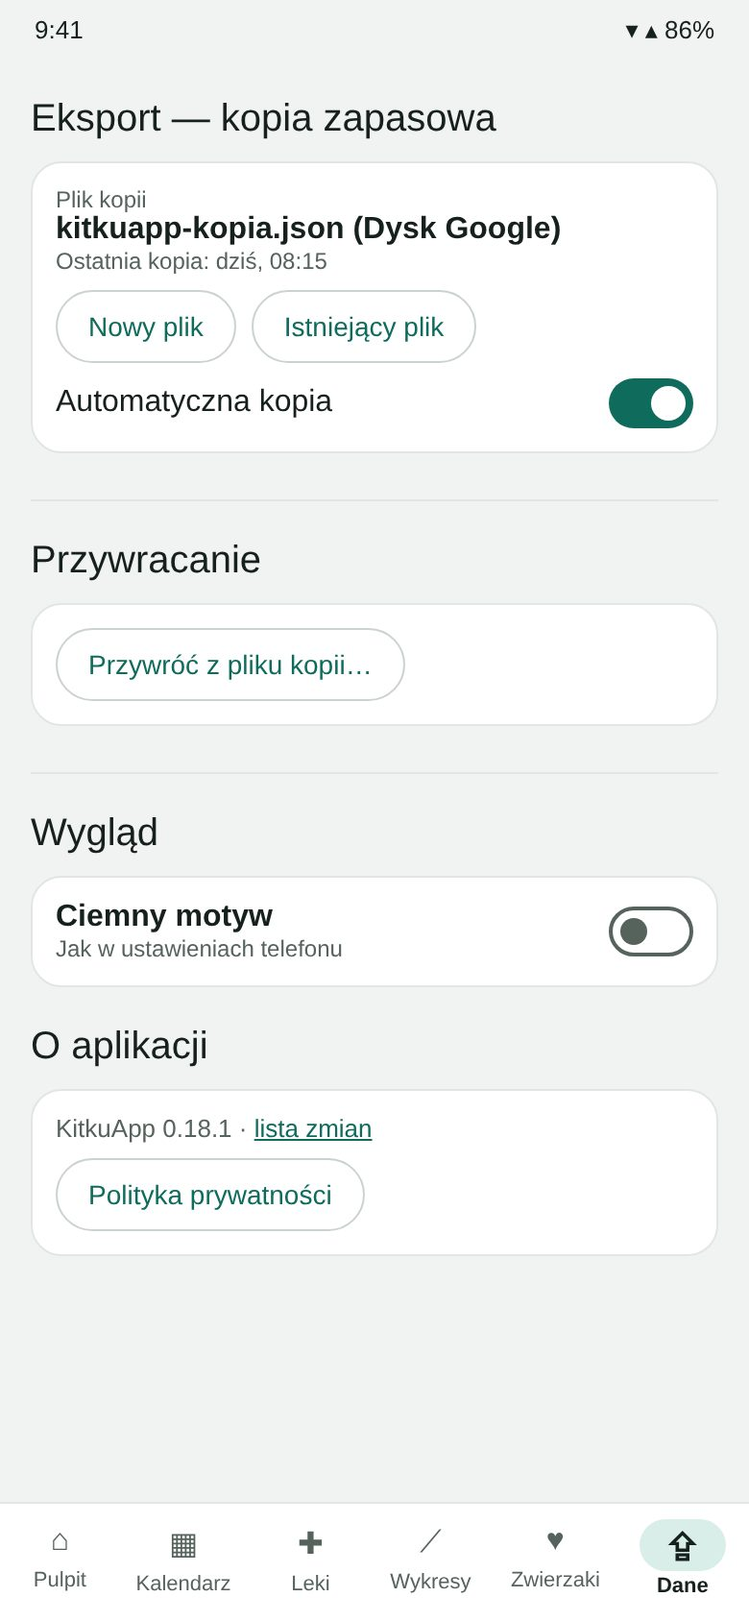
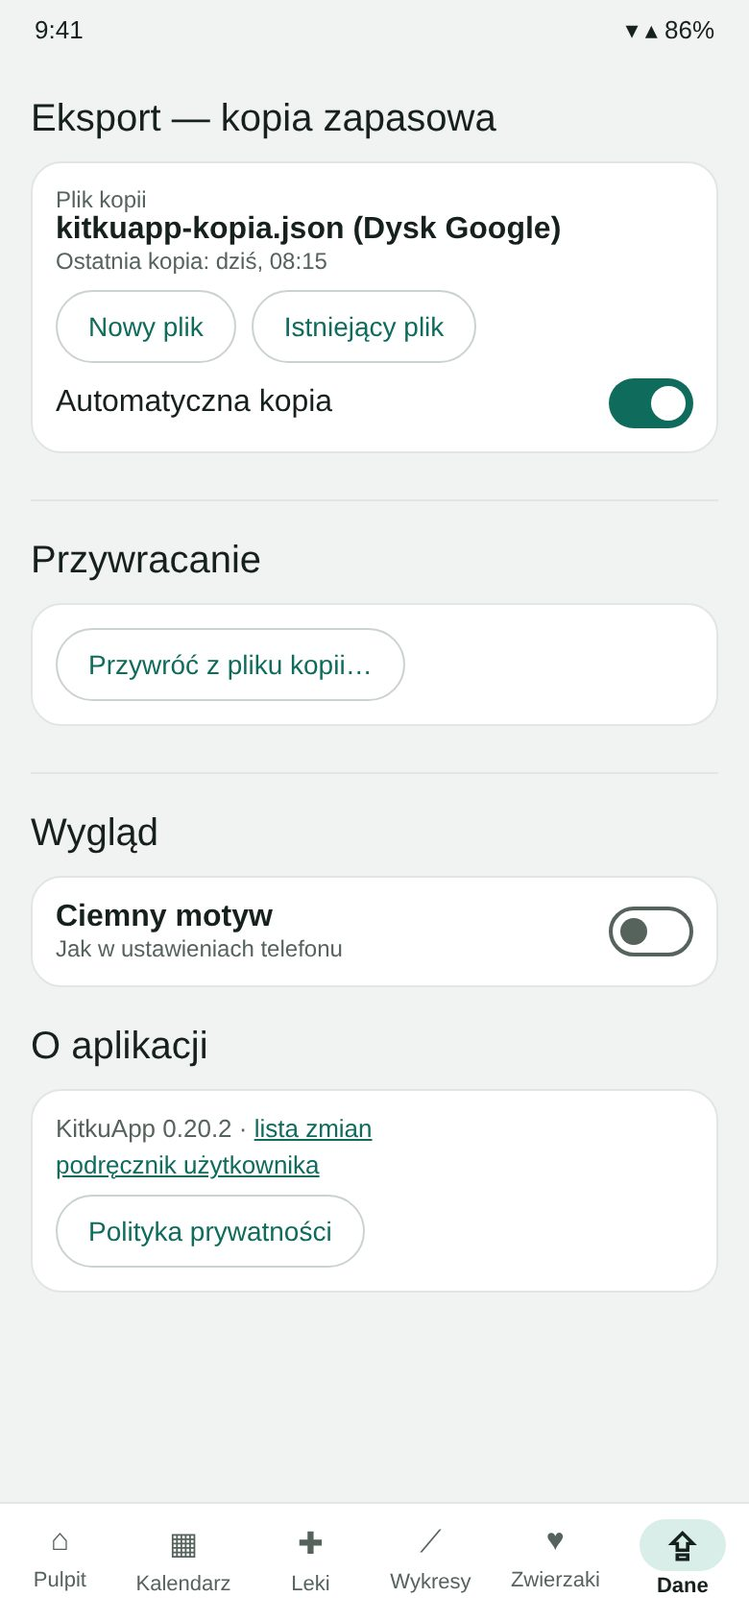
Zmiany 0.20.2, podręcznik: link do podręcznika w O aplikacji
Claude-Session: https://claude.ai/code/session_01Lz8gJxS2uki7r8oLhaRRUg

Changed region(s): [[0.0615, 0.6777, 0.4923, 0.7701]]

diff --git a/zmiany/index.html b/zmiany/index.html
@@ -8,5 +8,5 @@ main{max-width:760px;margin:0 auto;padding:clamp(28px,5vw,56px) max(5vw,18px) 64
 h1{font-size:clamp(30px,5vw,40px);line-height:1.1;margin:8px 0 18px}.ver{border-top:1px solid var(--line);padding:14px 0 4px}
 .ver h2{font-size:20px;margin:0 0 4px}.ver h2 span{font-size:15px;font-weight:400;color:var(--mut);margin-left:8px}ul{padding-left:22px;margin:6px 0}li{margin:4px 0}</style></head><body><main>
 <p><a href="../">← KitkuApp</a></p><h1>Historia zmian</h1>
-<section class="ver"><h2>0.20.1 <span>24.11.2026</span></h2><ul><li>Wykresy: „Dodaj pomiar” jest teraz nad listą wcześniejszych pomiarów.</li><li>Pomiary domowe: usunięte ciśnienie rozkurczowe (u kotów ocenia się głównie skurczowe). Wartości rozkurczowe z wypisów nadal są na wykresach.</li></ul></section><section class="ver"><h2>0.20.0 <span>24.11.2026</span></h2><ul><li>Wykresy na osi czasu: punkty w odstępach zgodnych z datami, na osi lata (po przybliżeniu półrocza i kwartały).</li><li>Domyślnie widać ostatnie 3 lata; gdy pomiary obejmują krótszy okres – wszystkie.</li><li>Przeciągnięcie wykresu w lewo lub w prawo przesuwa widok w czasie; strzałki ‹ › w rogach pokazują, że są starsze lub nowsze pomiary.</li><li>Suwak pod wykresem przybliża od „wszystko” do 3 miesięcy; „↺ Domyślny widok” wraca do 3 lat.</li></ul></section><section class="ver"><h2>0.19.2 <span>24.11.2026</span></h2><ul><li>Wykresy: parametry morfologii w kolejności jak na wydruku z analizatora (WBC, BAS%, BAS, NEU%, NEU … PLT, MPV, PDW, PCT), pozostałe pod nimi alfabetycznie.</li></ul></section><section class="ver"><h2>0.19.1 <span>24.11.2026</span></h2><ul><li>Wykresy: ten sam wynik zapisany w dwóch dokumentach z jednego dnia pokazuje się raz (bez nakładających się etykiet).</li><li>Parametry podawane w % (np. NEU %) mają własny wykres, osobno od wartości bezwzględnych.</li><li>Lista parametrów: bez pustych dopisków „też:”.</li></ul></section><section class="ver"><h2>0.19.0 <span>24.11.2026</span></h2><ul><li>Wykresy: wykres od razu pod wyborem zwierzaka. Dotknięcie nazwy parametru otwiera wybór, strzałki ‹ › przechodzą do sąsiednich parametrów z tej samej grupy.</li><li>Pod wykresem skróty: parametry poza normą w ostatnich wynikach i przypięte gwiazdką.</li><li>„Wszystkie parametry” – lista z wyszukiwarką (także po innych nazwach, np. „hematokryt”), pogrupowana jak badania, z ostatnią wartością.</li><li>Ten sam parametr z różnych laboratoriów (np. HCT i Hematokryt, PLT i Płytki krwi) oraz nazwy rozbite przy odczycie PDF trafiają na jeden wykres.</li></ul></section><section class="ver"><h2>0.18.2 <span>24.11.2026</span></h2><ul><li>Profil: „Archiwum diet” i „Historia fizjoterapii” przeniesione pod karty – przycisk dodawania w nagłówku nie łamie się już na wąskich ekranach.</li></ul></section><section class="ver"><h2>0.18.1 <span>23.11.2026</span></h2><ul><li>Poprawka: po przesunięciu profilu na innego zwierzaka „Terminy badań” pokazywały daty poprzednio oglądanego zwierzaka.</li></ul></section><section class="ver"><h2>0.18.0 <span>23.11.2026</span></h2><ul><li>Wizyta z datą w przyszłości wymaga tylko tytułu. Gdy termin minie, jest wyróżniona w historii i na Pulpicie z prośbą o wyniki – „Uzupełnij” albo „Dodaj skan” (skan z tego dnia uzupełni ten wpis).</li><li>Dieta: w profilu tylko trwające diety, zakończone w „Archiwum diet”. „Zakończ dietę” od razu przenosi ją do archiwum.</li><li>Fizjoterapia przeniesiona z kategorii badań do profilu zwierzaka – sekcja pod dietą, z własną historią.</li><li>Przesunięcie profilu w lewo lub w prawo przechodzi do kolejnego zwierzaka.</li><li>Kategorie badań przy dodawaniu wpisu pogrupowane (krew i mocz, obrazowe, wizyty) i zajmują mniej miejsca.</li></ul></section><section class="ver"><h2>0.17.0 <span>23.11.2026</span></h2><ul><li>Ręczny wpis: osobne pola Opis i Zalecenia (zalecenia tworzą przypomnienia), wyniki wpisywane wierszami – z podpowiedzią parametru, jednostką, normą i strzałką poza normą. Badanie z wynikami wymaga co najmniej jednego wyniku. Wyniki trafiają na wykresy i do stanu zdrowia.</li><li>Nowa kategoria: Fizjoterapia (opis zabiegów i zalecenia).</li><li>Stan zdrowia: dotknięcie pozycji otwiera badanie, przy wartościach poza normą widać normę, a zalecenia typu „kontrola za 12 miesięcy” nie są liczone jako problem.</li><li>Wybór zwierzaka ze zdjęciem i kolorem zwierzaka w tle (kalendarz, leki, wykresy, wpisy).</li><li>Leki: sekcja „Historia diet” nad historią leczenia.</li></ul></section><section class="ver"><h2>0.16.0 <span>23.11.2026</span></h2><ul><li>Profil zwierzaka: sekcja „Dieta” (nazwa, od–do lub na stałe, reakcja na dietę). Po zakończeniu dieta przechodzi do historii.</li><li>Wyszukiwanie w historii zwierzaka – w tytułach i opisach wpisów, na bieżąco podczas pisania.</li><li>Historia podzielona na roczniki – kreska z rokiem na granicy lat.</li><li>Po powrocie z otwartego wpisu profil wraca w to samo miejsce historii.</li></ul></section><section class="ver"><h2>0.15.2 <span>23.11.2026</span></h2><ul><li>Lepszy import historii wizyt: opis badania klinicznego zachowuje podział na punkty, zawinięte zdania są sklejane, a wizyty z samymi załącznikami są pomijane.</li><li>Poprawnie odczytywane wyniki, w których wartość jest sklejona z nazwą parametru (np. SAA), wyniki „w toku” są pomijane, a „Wartość” dostaje nazwę badania.</li><li>Interpretacja wyniku przerwana podziałem strony nie gubi ostatniego zdania.</li></ul></section><section class="ver"><h2>0.15.1 <span>23.11.2026</span></h2><ul><li>Nowa ikona aplikacji.</li><li>Zakładka „Dane i ustawienia” – czytelniej rozdzielone sekcje przywracania kopii i wyglądu.</li></ul></section><section class="ver"><h2>0.15.0 <span>22.11.2026</span></h2><ul><li>Normy badania moczu dla kotów i psów, gdy laboratorium ich nie podało: ciężar właściwy, pH, stosunek białko/kreatynina (z rozróżnieniem wartości granicznej i białkomoczu), erytrocyty i leukocyty w osadzie.</li><li>Wyniki opisowe (glukoza, ketony, krew, bilirubina, bakterie, wałeczki, nabłonki, liczne kryształy) oznaczane jako nieprawidłowe, z normą słowną obok. Białko z paska u kota – tylko informacyjnie.</li><li>Nieprawidłowe wyniki moczu trafiają do podsumowania stanu zdrowia.</li></ul></section><section class="ver"><h2>0.14.0 <span>22.11.2026</span></h2><ul><li>Ciemny motyw: przełącznik w zakładce Dane (sekcja „Wygląd”). Domyślnie aplikacja dopasowuje się do ustawień telefonu.</li></ul></section><section class="ver"><h2>0.13.1 <span>22.11.2026</span></h2><ul><li>Lepszy import zeskanowanych kart wizyt: rozpoznawane sekcje „Opis badania”, „Zabiegi” i „Zastosowane leki” mimo ikon przy nagłówkach, a także data wizyty zaznaczona zakreślaczem.</li><li>Tomografia wpisana w zabiegach oznacza wpis kategorią TK.</li></ul></section><section class="ver"><h2>0.13.0 <span>22.11.2026</span></h2><ul><li>Profil zwierzaka: nowa sekcja „Stan zdrowia” – podsumowanie tworzone automatycznie z ostatnich wyników każdego badania (wartości poza normą, wnioski z badań obrazowych, na końcu badania w normie). Odświeża się samo po dodaniu nowych wyników.</li><li>Pod podsumowaniem pole „Moje notatki” na własne uwagi o zdrowiu.</li></ul></section><section class="ver"><h2>0.12.5 <span>22.11.2026</span></h2><ul><li>Import opisów tomografii komputerowej: rozpoznawane imię zwierzęcia, data i tytuł badania, lekarz opisujący i kierujący, a do wpisu trafia pełny opis i wnioski (bez stopek i stron z obrazami).</li><li>Nowa kategoria badań: Tomografia komputerowa.</li></ul></section><section class="ver"><h2>0.12.4 <span>22.11.2026</span></h2><ul><li>Kalendarz: dotknięcie nazwy miesiąca otwiera wybór miesiąca i roku.</li><li>Kalendarz: usunięta karta „Terminy badań” – terminy są w profilach zwierzaków, a w widoku miesiąca nadal widać je jako kółka.</li><li>Po powrocie z otwartego wpisu kalendarz pokazuje ten sam miesiąc, dzień i filtr.</li></ul></section><section class="ver"><h2>0.12.3 <span>22.11.2026</span></h2><ul><li>Leki podawane co kilka dni: w oknie leku pole „Podawaj co … dni”, na liście informacja o następnej dawce, a zapasy liczą zużycie tylko w dni podania.</li></ul></section><section class="ver"><h2>0.12.2 <span>22.11.2026</span></h2><ul><li>Sekcja Zapasy na karcie Leki pokazuje wszystkie monitorowane leki, niezależnie od wybranego zwierzaka, razem z informacją, kto je dostaje.</li></ul></section><section class="ver"><h2>0.12.1 <span>22.11.2026</span></h2><ul><li>W przypomnieniu jednorazowym termin można ustawić wpisując „Za … miesięcy” – data przelicza się sama.</li></ul></section><section class="ver"><h2>0.12.0 <span>22.11.2026</span></h2><ul><li>Zapasy leków: zaznacz „Monitoruj zużycie”, wpisz posiadaną ilość, a karta Leki pokaże, na ile dni wystarczy zapas. Zużycie liczone jest ze wszystkich zwierzaków, które dostają ten sam lek.</li><li>Przypomnienie na Pulpicie i powiadomienie, gdy zapas leku kończy się w ciągu 7 dni.</li><li>Dawka wpisywana jako liczba z jednostką (szt, ml, g).</li><li>Nowy lek można dodać od razu kilku zwierzakom i o kilku godzinach.</li><li>Podpowiedzi nazw leków już używanych (także przy literówce) – z dawką i jednostką.</li></ul></section><section class="ver"><h2>0.11.6 <span>20.11.2026</span></h2><ul><li>Opisy badań USG importowane w całości, w akapitach, z kategorią „USG jamy brzusznej”.</li><li>Poprawione rozpoznawanie imion i słów w wypisach, w których PDF rozdzielał wyrazy (np. „Zw ierzę”).</li></ul></section><section class="ver"><h2>0.11.5 <span>20.11.2026</span></h2><ul><li>Uwaga o konsultacji częstotliwości badań z weterynarzem przeniesiona nad przypomnienia jednorazowe.</li><li>W zakładce Dane przy numerze wersji link do listy zmian.</li></ul></section><section class="ver"><h2>0.11.4 <span>20.11.2026</span></h2><ul><li>Przypomnienie o USG jamy brzusznej domyślnie co 12 miesięcy (wcześniej 6).</li><li>W ustawieniach przypomnień uwaga, że częstotliwość badań warto ustalić z lekarzem weterynarii.</li></ul></section><section class="ver"><h2>0.11.3 <span>20.11.2026</span></h2><ul><li>Przypomnienie o echu serca domyślnie co 12 miesięcy (wcześniej 24), zgodnie z zaleceniem corocznej kontroli kotów z ras predysponowanych i z łagodną kardiomiopatią.</li></ul></section><section class="ver"><h2>0.11.2 <span>19.11.2026</span></h2><ul><li>Przy dodawaniu wpisu i imporcie nie trzeba już wybierać rodzaju (wizyta, badanie, telefon, pomiar domowy) — aplikacja ustawia go sama.</li></ul></section><section class="ver"><h2>0.11.1 <span>19.11.2026</span></h2><ul><li>Profil zwierzaka: dotknięcie badania w „Terminach badań” pokazuje historię tylko z tym badaniem.</li></ul></section><section class="ver"><h2>0.11.0 <span>19.11.2026</span></h2><ul><li>Import wypisów z gabinetu kardiologicznego: cały wynik echa serca zapisany w opisie wizyty, wywiad, waga, ciśnienie i zalecenia (np. kontrolne echo po 3–4 miesiącach).</li><li>Imię z wypisu dopasowywane mimo drobnej różnicy w pisowni (np. Papaya ↔ Papaja).</li></ul></section><section class="ver"><h2>0.10.6 <span>19.11.2026</span></h2><ul><li>Numer wersji rośnie automatycznie z każdym wydaniem (porządek przy publikacji w Google Play).</li></ul></section><section class="ver"><h2>0.10.5 <span>19.11.2026</span></h2><ul><li>Polityka prywatności na stronie aplikacji (GitHub Pages), link w zakładce Dane.</li></ul></section><section class="ver"><h2>0.10.4 <span>18.11.2026</span></h2><ul><li>Import kilku dużych kartotek naraz bez zawieszania aplikacji: zapis w tle, pliki czytane po kolei, lista wizyt pokazywana porcjami, przycisk usuwania duplikatów z listy.</li></ul></section><section class="ver"><h2>0.10.3 <span>17.11.2026</span></h2><ul><li>Edycja i usuwanie przypomnień: zmiana nazwy i okresu, usuwanie własnych i domyślnych (z możliwością przywrócenia), edycja przypomnień jednorazowych.</li></ul></section><section class="ver"><h2>0.10.2 <span>17.11.2026</span></h2><ul><li>Zwierzaki na Pulpicie i w zakładce Zwierzaki ułożone od tych, które najbardziej potrzebują badań.</li><li>Terminy badań w profilu od zaległych do najodleglejszych.</li><li>Leki pogrupowane według godziny podawania.</li></ul></section><section class="ver"><h2>0.10.1 <span>17.11.2026</span></h2><ul><li>Nowe przypomnienie: pomiar ciśnienia co 6 miesięcy.</li></ul></section><section class="ver"><h2>0.10.0 <span>17.11.2026</span></h2><ul><li>Przygotowanie do Google Play: nowy identyfikator aplikacji, Android 16, polityka prywatności.</li></ul></section><section class="ver"><h2>0.9.2 <span>17.11.2026</span></h2><ul><li>Przypomnienia jednorazowe nie mnożą się po imporcie starszych kartotek; zamknięte można ukryć lub usunąć.</li></ul></section><section class="ver"><h2>0.9.1 <span>17.11.2026</span></h2><ul><li>Ręczna poprawa zaimportowanych wyników: nazwa, wartość, jednostka, norma, dodawanie i usuwanie pozycji.</li><li>Poprawny tytuł badania, gdy tabela zaczyna się na następnej stronie wypisu.</li></ul></section><section class="ver"><h2>0.9.0 <span>17.11.2026</span></h2><ul><li>Psy obok kotów, z typowymi wartościami tętna, oddechów i ciśnienia dla psa.</li><li>Przypomnienia jednorazowe z zaleceń w wypisie (np. „powtórzyć USG za miesiąc”) i po wynikach poza normą.</li></ul></section><section class="ver"><h2>0.8.0 <span>17.11.2026</span></h2><ul><li>Zdjęcia zwierząt z przesuwaniem i kadrowaniem.</li><li>Ciśnienie skurczowe, rozkurczowe i tętno w pomiarach domowych i z wypisów.</li></ul></section><section class="ver"><h2>0.7 <span>17.11.2026</span></h2><ul><li>Nowa zakładka Leki: godzina podawania, dawka, uwagi, daty oraz historia leczenia.</li><li>Czytelniejszy dolny pasek nawigacji.</li></ul></section><section class="ver"><h2>0.6 <span>17.11.2026</span></h2><ul><li>Nowa nazwa: KitkuApp, przycisk „Postaw kotkom karmę”.</li><li>Przypomnienie o echu serca (co 24 miesiące) i własne przypomnienia.</li></ul></section><section class="ver"><h2>0.5 <span>17.11.2026</span></h2><ul><li>Odczyt skanów PDF i zdjęć wypisów (rozpoznawanie tekstu w telefonie).</li><li>Pomiary domowe: oddechy w spoczynku, biegunka, wymioty; zwijane kategorie wykresów.</li><li>Zakładka Dane z importem i kopią zapasową, dzwonek do ustawień przypomnień, do 6 zwierzaków widocznych bez przewijania.</li></ul></section><section class="ver"><h2>0.4 <span>16.11.2026</span></h2><ul><li>Import zbiorczych wypisów z wieloma wizytami w jednym pliku.</li><li>Jednostki wyników przeliczane na wspólne, dokładniejszy odczyt tabel z wynikami.</li></ul></section><section class="ver"><h2>0.3 <span>16.11.2026</span></h2><ul><li>Pierwsza wersja: kalendarz badań z przypomnieniami, profile kotów z wiekiem, import wypisów PDF, wykresy wyników, kopia zapasowa na Dysku Google.</li></ul></section>
+<section class="ver"><h2>0.20.2 <span>25.11.2026</span></h2><ul><li>O aplikacji: pod linkiem do listy zmian jest link do podręcznika użytkownika.</li></ul></section><section class="ver"><h2>0.20.1 <span>24.11.2026</span></h2><ul><li>Wykresy: „Dodaj pomiar” jest teraz nad listą wcześniejszych pomiarów.</li><li>Pomiary domowe: usunięte ciśnienie rozkurczowe (u kotów ocenia się głównie skurczowe). Wartości rozkurczowe z wypisów nadal są na wykresach.</li></ul></section><section class="ver"><h2>0.20.0 <span>24.11.2026</span></h2><ul><li>Wykresy na osi czasu: punkty w odstępach zgodnych z datami, na osi lata (po przybliżeniu półrocza i kwartały).</li><li>Domyślnie widać ostatnie 3 lata; gdy pomiary obejmują krótszy okres – wszystkie.</li><li>Przeciągnięcie wykresu w lewo lub w prawo przesuwa widok w czasie; strzałki ‹ › w rogach pokazują, że są starsze lub nowsze pomiary.</li><li>Suwak pod wykresem przybliża od „wszystko” do 3 miesięcy; „↺ Domyślny widok” wraca do 3 lat.</li></ul></section><section class="ver"><h2>0.19.2 <span>24.11.2026</span></h2><ul><li>Wykresy: parametry morfologii w kolejności jak na wydruku z analizatora (WBC, BAS%, BAS, NEU%, NEU … PLT, MPV, PDW, PCT), pozostałe pod nimi alfabetycznie.</li></ul></section><section class="ver"><h2>0.19.1 <span>24.11.2026</span></h2><ul><li>Wykresy: ten sam wynik zapisany w dwóch dokumentach z jednego dnia pokazuje się raz (bez nakładających się etykiet).</li><li>Parametry podawane w % (np. NEU %) mają własny wykres, osobno od wartości bezwzględnych.</li><li>Lista parametrów: bez pustych dopisków „też:”.</li></ul></section><section class="ver"><h2>0.19.0 <span>24.11.2026</span></h2><ul><li>Wykresy: wykres od razu pod wyborem zwierzaka. Dotknięcie nazwy parametru otwiera wybór, strzałki ‹ › przechodzą do sąsiednich parametrów z tej samej grupy.</li><li>Pod wykresem skróty: parametry poza normą w ostatnich wynikach i przypięte gwiazdką.</li><li>„Wszystkie parametry” – lista z wyszukiwarką (także po innych nazwach, np. „hematokryt”), pogrupowana jak badania, z ostatnią wartością.</li><li>Ten sam parametr z różnych laboratoriów (np. HCT i Hematokryt, PLT i Płytki krwi) oraz nazwy rozbite przy odczycie PDF trafiają na jeden wykres.</li></ul></section><section class="ver"><h2>0.18.2 <span>24.11.2026</span></h2><ul><li>Profil: „Archiwum diet” i „Historia fizjoterapii” przeniesione pod karty – przycisk dodawania w nagłówku nie łamie się już na wąskich ekranach.</li></ul></section><section class="ver"><h2>0.18.1 <span>23.11.2026</span></h2><ul><li>Poprawka: po przesunięciu profilu na innego zwierzaka „Terminy badań” pokazywały daty poprzednio oglądanego zwierzaka.</li></ul></section><section class="ver"><h2>0.18.0 <span>23.11.2026</span></h2><ul><li>Wizyta z datą w przyszłości wymaga tylko tytułu. Gdy termin minie, jest wyróżniona w historii i na Pulpicie z prośbą o wyniki – „Uzupełnij” albo „Dodaj skan” (skan z tego dnia uzupełni ten wpis).</li><li>Dieta: w profilu tylko trwające diety, zakończone w „Archiwum diet”. „Zakończ dietę” od razu przenosi ją do archiwum.</li><li>Fizjoterapia przeniesiona z kategorii badań do profilu zwierzaka – sekcja pod dietą, z własną historią.</li><li>Przesunięcie profilu w lewo lub w prawo przechodzi do kolejnego zwierzaka.</li><li>Kategorie badań przy dodawaniu wpisu pogrupowane (krew i mocz, obrazowe, wizyty) i zajmują mniej miejsca.</li></ul></section><section class="ver"><h2>0.17.0 <span>23.11.2026</span></h2><ul><li>Ręczny wpis: osobne pola Opis i Zalecenia (zalecenia tworzą przypomnienia), wyniki wpisywane wierszami – z podpowiedzią parametru, jednostką, normą i strzałką poza normą. Badanie z wynikami wymaga co najmniej jednego wyniku. Wyniki trafiają na wykresy i do stanu zdrowia.</li><li>Nowa kategoria: Fizjoterapia (opis zabiegów i zalecenia).</li><li>Stan zdrowia: dotknięcie pozycji otwiera badanie, przy wartościach poza normą widać normę, a zalecenia typu „kontrola za 12 miesięcy” nie są liczone jako problem.</li><li>Wybór zwierzaka ze zdjęciem i kolorem zwierzaka w tle (kalendarz, leki, wykresy, wpisy).</li><li>Leki: sekcja „Historia diet” nad historią leczenia.</li></ul></section><section class="ver"><h2>0.16.0 <span>23.11.2026</span></h2><ul><li>Profil zwierzaka: sekcja „Dieta” (nazwa, od–do lub na stałe, reakcja na dietę). Po zakończeniu dieta przechodzi do historii.</li><li>Wyszukiwanie w historii zwierzaka – w tytułach i opisach wpisów, na bieżąco podczas pisania.</li><li>Historia podzielona na roczniki – kreska z rokiem na granicy lat.</li><li>Po powrocie z otwartego wpisu profil wraca w to samo miejsce historii.</li></ul></section><section class="ver"><h2>0.15.2 <span>23.11.2026</span></h2><ul><li>Lepszy import historii wizyt: opis badania klinicznego zachowuje podział na punkty, zawinięte zdania są sklejane, a wizyty z samymi załącznikami są pomijane.</li><li>Poprawnie odczytywane wyniki, w których wartość jest sklejona z nazwą parametru (np. SAA), wyniki „w toku” są pomijane, a „Wartość” dostaje nazwę badania.</li><li>Interpretacja wyniku przerwana podziałem strony nie gubi ostatniego zdania.</li></ul></section><section class="ver"><h2>0.15.1 <span>23.11.2026</span></h2><ul><li>Nowa ikona aplikacji.</li><li>Zakładka „Dane i ustawienia” – czytelniej rozdzielone sekcje przywracania kopii i wyglądu.</li></ul></section><section class="ver"><h2>0.15.0 <span>22.11.2026</span></h2><ul><li>Normy badania moczu dla kotów i psów, gdy laboratorium ich nie podało: ciężar właściwy, pH, stosunek białko/kreatynina (z rozróżnieniem wartości granicznej i białkomoczu), erytrocyty i leukocyty w osadzie.</li><li>Wyniki opisowe (glukoza, ketony, krew, bilirubina, bakterie, wałeczki, nabłonki, liczne kryształy) oznaczane jako nieprawidłowe, z normą słowną obok. Białko z paska u kota – tylko informacyjnie.</li><li>Nieprawidłowe wyniki moczu trafiają do podsumowania stanu zdrowia.</li></ul></section><section class="ver"><h2>0.14.0 <span>22.11.2026</span></h2><ul><li>Ciemny motyw: przełącznik w zakładce Dane (sekcja „Wygląd”). Domyślnie aplikacja dopasowuje się do ustawień telefonu.</li></ul></section><section class="ver"><h2>0.13.1 <span>22.11.2026</span></h2><ul><li>Lepszy import zeskanowanych kart wizyt: rozpoznawane sekcje „Opis badania”, „Zabiegi” i „Zastosowane leki” mimo ikon przy nagłówkach, a także data wizyty zaznaczona zakreślaczem.</li><li>Tomografia wpisana w zabiegach oznacza wpis kategorią TK.</li></ul></section><section class="ver"><h2>0.13.0 <span>22.11.2026</span></h2><ul><li>Profil zwierzaka: nowa sekcja „Stan zdrowia” – podsumowanie tworzone automatycznie z ostatnich wyników każdego badania (wartości poza normą, wnioski z badań obrazowych, na końcu badania w normie). Odświeża się samo po dodaniu nowych wyników.</li><li>Pod podsumowaniem pole „Moje notatki” na własne uwagi o zdrowiu.</li></ul></section><section class="ver"><h2>0.12.5 <span>22.11.2026</span></h2><ul><li>Import opisów tomografii komputerowej: rozpoznawane imię zwierzęcia, data i tytuł badania, lekarz opisujący i kierujący, a do wpisu trafia pełny opis i wnioski (bez stopek i stron z obrazami).</li><li>Nowa kategoria badań: Tomografia komputerowa.</li></ul></section><section class="ver"><h2>0.12.4 <span>22.11.2026</span></h2><ul><li>Kalendarz: dotknięcie nazwy miesiąca otwiera wybór miesiąca i roku.</li><li>Kalendarz: usunięta karta „Terminy badań” – terminy są w profilach zwierzaków, a w widoku miesiąca nadal widać je jako kółka.</li><li>Po powrocie z otwartego wpisu kalendarz pokazuje ten sam miesiąc, dzień i filtr.</li></ul></section><section class="ver"><h2>0.12.3 <span>22.11.2026</span></h2><ul><li>Leki podawane co kilka dni: w oknie leku pole „Podawaj co … dni”, na liście informacja o następnej dawce, a zapasy liczą zużycie tylko w dni podania.</li></ul></section><section class="ver"><h2>0.12.2 <span>22.11.2026</span></h2><ul><li>Sekcja Zapasy na karcie Leki pokazuje wszystkie monitorowane leki, niezależnie od wybranego zwierzaka, razem z informacją, kto je dostaje.</li></ul></section><section class="ver"><h2>0.12.1 <span>22.11.2026</span></h2><ul><li>W przypomnieniu jednorazowym termin można ustawić wpisując „Za … miesięcy” – data przelicza się sama.</li></ul></section><section class="ver"><h2>0.12.0 <span>22.11.2026</span></h2><ul><li>Zapasy leków: zaznacz „Monitoruj zużycie”, wpisz posiadaną ilość, a karta Leki pokaże, na ile dni wystarczy zapas. Zużycie liczone jest ze wszystkich zwierzaków, które dostają ten sam lek.</li><li>Przypomnienie na Pulpicie i powiadomienie, gdy zapas leku kończy się w ciągu 7 dni.</li><li>Dawka wpisywana jako liczba z jednostką (szt, ml, g).</li><li>Nowy lek można dodać od razu kilku zwierzakom i o kilku godzinach.</li><li>Podpowiedzi nazw leków już używanych (także przy literówce) – z dawką i jednostką.</li></ul></section><section class="ver"><h2>0.11.6 <span>20.11.2026</span></h2><ul><li>Opisy badań USG importowane w całości, w akapitach, z kategorią „USG jamy brzusznej”.</li><li>Poprawione rozpoznawanie imion i słów w wypisach, w których PDF rozdzielał wyrazy (np. „Zw ierzę”).</li></ul></section><section class="ver"><h2>0.11.5 <span>20.11.2026</span></h2><ul><li>Uwaga o konsultacji częstotliwości badań z weterynarzem przeniesiona nad przypomnienia jednorazowe.</li><li>W zakładce Dane przy numerze wersji link do listy zmian.</li></ul></section><section class="ver"><h2>0.11.4 <span>20.11.2026</span></h2><ul><li>Przypomnienie o USG jamy brzusznej domyślnie co 12 miesięcy (wcześniej 6).</li><li>W ustawieniach przypomnień uwaga, że częstotliwość badań warto ustalić z lekarzem weterynarii.</li></ul></section><section class="ver"><h2>0.11.3 <span>20.11.2026</span></h2><ul><li>Przypomnienie o echu serca domyślnie co 12 miesięcy (wcześniej 24), zgodnie z zaleceniem corocznej kontroli kotów z ras predysponowanych i z łagodną kardiomiopatią.</li></ul></section><section class="ver"><h2>0.11.2 <span>19.11.2026</span></h2><ul><li>Przy dodawaniu wpisu i imporcie nie trzeba już wybierać rodzaju (wizyta, badanie, telefon, pomiar domowy) — aplikacja ustawia go sama.</li></ul></section><section class="ver"><h2>0.11.1 <span>19.11.2026</span></h2><ul><li>Profil zwierzaka: dotknięcie badania w „Terminach badań” pokazuje historię tylko z tym badaniem.</li></ul></section><section class="ver"><h2>0.11.0 <span>19.11.2026</span></h2><ul><li>Import wypisów z gabinetu kardiologicznego: cały wynik echa serca zapisany w opisie wizyty, wywiad, waga, ciśnienie i zalecenia (np. kontrolne echo po 3–4 miesiącach).</li><li>Imię z wypisu dopasowywane mimo drobnej różnicy w pisowni (np. Papaya ↔ Papaja).</li></ul></section><section class="ver"><h2>0.10.6 <span>19.11.2026</span></h2><ul><li>Numer wersji rośnie automatycznie z każdym wydaniem (porządek przy publikacji w Google Play).</li></ul></section><section class="ver"><h2>0.10.5 <span>19.11.2026</span></h2><ul><li>Polityka prywatności na stronie aplikacji (GitHub Pages), link w zakładce Dane.</li></ul></section><section class="ver"><h2>0.10.4 <span>18.11.2026</span></h2><ul><li>Import kilku dużych kartotek naraz bez zawieszania aplikacji: zapis w tle, pliki czytane po kolei, lista wizyt pokazywana porcjami, przycisk usuwania duplikatów z listy.</li></ul></section><section class="ver"><h2>0.10.3 <span>17.11.2026</span></h2><ul><li>Edycja i usuwanie przypomnień: zmiana nazwy i okresu, usuwanie własnych i domyślnych (z możliwością przywrócenia), edycja przypomnień jednorazowych.</li></ul></section><section class="ver"><h2>0.10.2 <span>17.11.2026</span></h2><ul><li>Zwierzaki na Pulpicie i w zakładce Zwierzaki ułożone od tych, które najbardziej potrzebują badań.</li><li>Terminy badań w profilu od zaległych do najodleglejszych.</li><li>Leki pogrupowane według godziny podawania.</li></ul></section><section class="ver"><h2>0.10.1 <span>17.11.2026</span></h2><ul><li>Nowe przypomnienie: pomiar ciśnienia co 6 miesięcy.</li></ul></section><section class="ver"><h2>0.10.0 <span>17.11.2026</span></h2><ul><li>Przygotowanie do Google Play: nowy identyfikator aplikacji, Android 16, polityka prywatności.</li></ul></section><section class="ver"><h2>0.9.2 <span>17.11.2026</span></h2><ul><li>Przypomnienia jednorazowe nie mnożą się po imporcie starszych kartotek; zamknięte można ukryć lub usunąć.</li></ul></section><section class="ver"><h2>0.9.1 <span>17.11.2026</span></h2><ul><li>Ręczna poprawa zaimportowanych wyników: nazwa, wartość, jednostka, norma, dodawanie i usuwanie pozycji.</li><li>Poprawny tytuł badania, gdy tabela zaczyna się na następnej stronie wypisu.</li></ul></section><section class="ver"><h2>0.9.0 <span>17.11.2026</span></h2><ul><li>Psy obok kotów, z typowymi wartościami tętna, oddechów i ciśnienia dla psa.</li><li>Przypomnienia jednorazowe z zaleceń w wypisie (np. „powtórzyć USG za miesiąc”) i po wynikach poza normą.</li></ul></section><section class="ver"><h2>0.8.0 <span>17.11.2026</span></h2><ul><li>Zdjęcia zwierząt z przesuwaniem i kadrowaniem.</li><li>Ciśnienie skurczowe, rozkurczowe i tętno w pomiarach domowych i z wypisów.</li></ul></section><section class="ver"><h2>0.7 <span>17.11.2026</span></h2><ul><li>Nowa zakładka Leki: godzina podawania, dawka, uwagi, daty oraz historia leczenia.</li><li>Czytelniejszy dolny pasek nawigacji.</li></ul></section><section class="ver"><h2>0.6 <span>17.11.2026</span></h2><ul><li>Nowa nazwa: KitkuApp, przycisk „Postaw kotkom karmę”.</li><li>Przypomnienie o echu serca (co 24 miesiące) i własne przypomnienia.</li></ul></section><section class="ver"><h2>0.5 <span>17.11.2026</span></h2><ul><li>Odczyt skanów PDF i zdjęć wypisów (rozpoznawanie tekstu w telefonie).</li><li>Pomiary domowe: oddechy w spoczynku, biegunka, wymioty; zwijane kategorie wykresów.</li><li>Zakładka Dane z importem i kopią zapasową, dzwonek do ustawień przypomnień, do 6 zwierzaków widocznych bez przewijania.</li></ul></section><section class="ver"><h2>0.4 <span>16.11.2026</span></h2><ul><li>Import zbiorczych wypisów z wieloma wizytami w jednym pliku.</li><li>Jednostki wyników przeliczane na wspólne, dokładniejszy odczyt tabel z wynikami.</li></ul></section><section class="ver"><h2>0.3 <span>16.11.2026</span></h2><ul><li>Pierwsza wersja: kalendarz badań z przypomnieniami, profile kotów z wiekiem, import wypisów PDF, wykresy wyników, kopia zapasowa na Dysku Google.</li></ul></section>
 </main></body></html>

diff --git a/podrecznik/index.html b/podrecznik/index.html
@@ -62,7 +62,7 @@ footer{border-top:1px solid var(--line);margin-top:30px;padding-top:14px}
 <div class="shot"><img src="img/przypomnienia.jpg" alt="Ekran Przypomnienia z przykładowymi danymi" width="780" height="1688" loading="lazy"><span class="tap" data-n="1" style="left:8.46%;top:10.43%;--d:0.0s" aria-hidden="true">1</span><span class="tap" data-n="2" style="left:5.13%;top:36.97%;--d:1.6s" aria-hidden="true">2</span><span class="tap" data-n="3" style="left:90.0%;top:55.33%;--d:3.2s" aria-hidden="true">3</span><span class="tap" data-n="4" style="left:5.13%;top:61.73%;--d:4.8s" aria-hidden="true">4</span><span class="tap" data-n="5" style="left:8.46%;top:71.45%;--d:6.4s" aria-hidden="true">5</span></div>
 <div><h2>Przypomnienia</h2><p>Co ile miesięcy które badanie i kiedy dostawać powiadomienia. Otwierane dzwonkiem na Pulpicie.</p><ol class="steps"><li data-n="1"><span class="n">1</span><span>Dotknij badania, aby zmienić <b>częstotliwość</b>, nazwę, śledzenie albo je usunąć.</span></li><li data-n="2"><span class="n">2</span><span>Własne przypomnienia – np. odrobaczanie co 3 miesiące.</span></li><li data-n="3"><span class="n">3</span><span>Przypomnienie jednorazowe: zmień termin, edytuj, przenieś na innego zwierzaka albo usuń.</span></li><li data-n="4"><span class="n">4</span><span>Nowe przypomnienie jednorazowe – termin datą albo „Za N miesięcy”.</span></li><li data-n="5"><span class="n">5</span><span>Z jakim wyprzedzeniem badanie ma się pojawiać jako „wkrótce” i w powiadomieniach.</span></li></ol></div></section><section class="scr" id="dane" style="--cycle:8.0s">
 <div class="shot"><img src="img/dane.jpg" alt="Ekran Kopia, wygląd i informacje z przykładowymi danymi" width="780" height="1688" loading="lazy"><span class="tap" data-n="1" style="left:8.46%;top:18.36%;--d:0.0s" aria-hidden="true">1</span><span class="tap" data-n="2" style="left:8.46%;top:23.82%;--d:1.6s" aria-hidden="true">2</span><span class="tap" data-n="3" style="left:8.46%;top:39.22%;--d:3.2s" aria-hidden="true">3</span><span class="tap" data-n="4" style="left:82.31%;top:56.4%;--d:4.8s" aria-hidden="true">4</span><span class="tap" data-n="5" style="left:34.96%;top:69.19%;--d:6.4s" aria-hidden="true">5</span></div>
-<div><h2>Kopia, wygląd i informacje</h2><p>Dalsza część karty „Dane i ustawienia”.</p><ol class="steps"><li data-n="1"><span class="n">1</span><span>Wskaż plik kopii – nowy albo istniejący (np. na Dysku Google). Dane zostają na telefonie i w tym pliku, nigdzie indziej.</span></li><li data-n="2"><span class="n">2</span><span><b>Automatyczna kopia</b> zapisuje plik po każdej zmianie danych.</span></li><li data-n="3"><span class="n">3</span><span><b>Przywracanie</b> wczytuje dane z kopii – np. na nowym telefonie.</span></li><li data-n="4"><span class="n">4</span><span><b>Ciemny motyw</b> – włącz, wyłącz albo zostaw „jak w telefonie”.</span></li><li data-n="5"><span class="n">5</span><span>Historia zmian aplikacji i polityka prywatności.</span></li></ol></div></section>
+<div><h2>Kopia, wygląd i informacje</h2><p>Dalsza część karty „Dane i ustawienia”.</p><ol class="steps"><li data-n="1"><span class="n">1</span><span>Wskaż plik kopii – nowy albo istniejący (np. na Dysku Google). Dane zostają na telefonie i w tym pliku, nigdzie indziej.</span></li><li data-n="2"><span class="n">2</span><span><b>Automatyczna kopia</b> zapisuje plik po każdej zmianie danych.</span></li><li data-n="3"><span class="n">3</span><span><b>Przywracanie</b> wczytuje dane z kopii – np. na nowym telefonie.</span></li><li data-n="4"><span class="n">4</span><span><b>Ciemny motyw</b> – włącz, wyłącz albo zostaw „jak w telefonie”.</span></li><li data-n="5"><span class="n">5</span><span>Historia zmian aplikacji, podręcznik użytkownika i polityka prywatności.</span></li></ol></div></section>
 <footer><p><a href="../">Strona główna</a> · <a href="../zmiany/">Lista zmian</a> · <a href="../polityka-prywatnosci/">Polityka prywatności</a></p></footer>
 </main><script>
 document.querySelectorAll('section.scr').forEach(sec=>{

diff --git a/index.html b/index.html
@@ -47,7 +47,7 @@ a{color:var(--acc)}.mut{color:var(--mut);font-size:15px}
 <div class="shots"><a href="img/01_pulpit-duzy.jpg"><img src="img/01_pulpit.jpg" alt="Pulpit" loading="lazy" width="540" height="960"></a><a href="img/02_zwierzaki-duzy.jpg"><img src="img/02_zwierzaki.jpg" alt="Lista zwierzaków" loading="lazy" width="540" height="960"></a><a href="img/03_profil-duzy.jpg"><img src="img/03_profil.jpg" alt="Profil – stan zdrowia i terminy" loading="lazy" width="540" height="960"></a><a href="img/04_opieka-duzy.jpg"><img src="img/04_opieka.jpg" alt="Profil – dieta, fizjoterapia i notatki" loading="lazy" width="540" height="960"></a><a href="img/05_wykresy-duzy.jpg"><img src="img/05_wykresy.jpg" alt="Wykresy wyników" loading="lazy" width="540" height="960"></a><a href="img/06_leki-duzy.jpg"><img src="img/06_leki.jpg" alt="Leki i zapasy" loading="lazy" width="540" height="960"></a><a href="img/07_kalendarz-duzy.jpg"><img src="img/07_kalendarz.jpg" alt="Kalendarz" loading="lazy" width="540" height="960"></a><a href="img/08_import-duzy.jpg"><img src="img/08_import.jpg" alt="Import wyników" loading="lazy" width="540" height="960"></a><a href="img/09_dane-duzy.jpg"><img src="img/09_dane.jpg" alt="Kopia zapasowa i wygląd" loading="lazy" width="540" height="960"></a></div>
 <p class="get"><a class="dl guide" href="podrecznik/">Podręcznik użytkownika</a><span>co można zrobić na każdym ekranie aplikacji</span></p>
 <h2>Co nowego</h2>
-<!--NOWE--><section class="ver"><h2>0.20.1 <span>24.11.2026</span></h2><ul><li>Wykresy: „Dodaj pomiar” jest teraz nad listą wcześniejszych pomiarów.</li><li>Pomiary domowe: usunięte ciśnienie rozkurczowe (u kotów ocenia się głównie skurczowe). Wartości rozkurczowe z wypisów nadal są na wykresach.</li></ul></section><p><a href="zmiany/">Pełna historia zmian</a></p><!--/NOWE-->
+<!--NOWE--><section class="ver"><h2>0.20.2 <span>25.11.2026</span></h2><ul><li>O aplikacji: pod linkiem do listy zmian jest link do podręcznika użytkownika.</li></ul></section><p><a href="zmiany/">Pełna historia zmian</a></p><!--/NOWE-->
 <p><a href="polityka-prywatnosci/">Polityka prywatności</a></p>
 <p>Aplikacja nie zastępuje porady lekarza weterynarii. Jej główny cel to pomoc właścicielom w pilnowaniu terminów badań i zebranie wszystkich wyników z różnych lecznic w jednym miejscu, na telefonie właściciela. Także po to, by pamiętać o wszystkim przy kolejnej wizycie u weterynarza. Powstała z myślą o moim stadzie, rozwijam ją po pracy. Jeśli pomogła Twoim kotom, postaw karmę moim (bo karma wraca) ;)</p>
 <p class="get"><a class="dl support" href="https://buycoffee.to/kitkuapp">Postaw kotkom karmę</a><span>wsparcie rozwoju aplikacji przez buycoffee.to</span></p>

diff --git a/tools/podrecznik/screens.py b/tools/podrecznik/screens.py
@@ -319,11 +319,11 @@ S.append(("dane", "Kopia, wygląd i informacje", "Dalsza część karty „Dane 
  <h2>Przywracanie</h2><div class="card"><span class="btn o"{T(3)}>Przywróć z pliku kopii…</span></div>
  <div style="height:1px;background:#E1E6E3;margin-top:24px"></div>
  <h2>Wygląd</h2><div class="card"><div class="row"><div class="grow"><div class="b">Ciemny motyw</div><div class="mut sm">Jak w ustawieniach telefonu</div></div><span{T(4)} style="display:inline-block;width:44px;height:26px;border-radius:13px;border:2px solid #56635D;position:relative"><i style="position:absolute;left:4px;top:4px;width:14px;height:14px;border-radius:50%;background:#56635D"></i></span></div></div>
- <h2>O aplikacji</h2><div class="card"><div class="mut">KitkuApp 0.18.1 · <u style="color:#0F6B5C"{T(5)}>lista zmian</u></div><div style="margin-top:8px"><span class="btn o">Polityka prywatności</span></div></div>
+ <h2>O aplikacji</h2><div class="card"><div class="mut">KitkuApp 0.20.2 · <u style="color:#0F6B5C"{T(5)}>lista zmian</u></div><div class="mut" style="margin-top:4px"><u style="color:#0F6B5C">podręcznik użytkownika</u></div><div style="margin-top:8px"><span class="btn o">Polityka prywatności</span></div></div>
 </div>''', "Dane"), [
  (1, "Wskaż plik kopii – nowy albo istniejący (np. na Dysku Google). Dane zostają na telefonie i w tym pliku, nigdzie indziej."),
  (2, "<b>Automatyczna kopia</b> zapisuje plik po każdej zmianie danych."),
  (3, "<b>Przywracanie</b> wczytuje dane z kopii – np. na nowym telefonie."),
  (4, "<b>Ciemny motyw</b> – włącz, wyłącz albo zostaw „jak w telefonie”."),
- (5, "Historia zmian aplikacji i polityka prywatności."),
+ (5, "Historia zmian aplikacji, podręcznik użytkownika i polityka prywatności."),
 ]))

diff --git a/CHANGELOG.md b/CHANGELOG.md
@@ -1,5 +1,8 @@
 # Historia zmian KitkuApp
 
+## 0.20.2 — 25.11.2026
+- O aplikacji: pod linkiem do listy zmian jest link do podręcznika użytkownika.
+
 ## 0.20.1 — 24.11.2026
 - Wykresy: „Dodaj pomiar” jest teraz nad listą wcześniejszych pomiarów.
 - Pomiary domowe: usunięte ciśnienie rozkurczowe (u kotów ocenia się głównie skurczowe). Wartości rozkurczowe z wypisów nadal są na wykresach.
